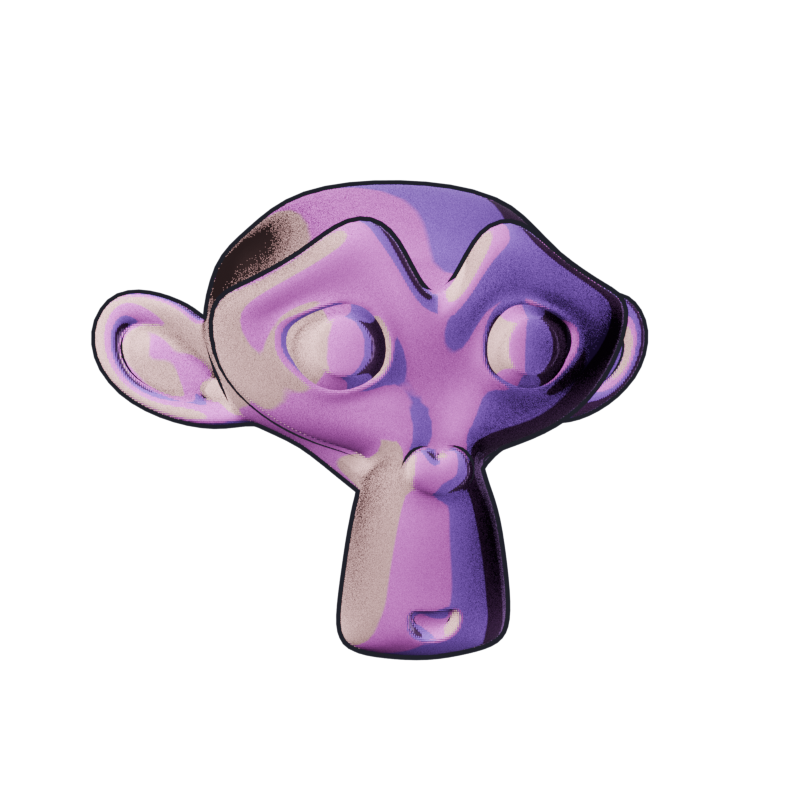
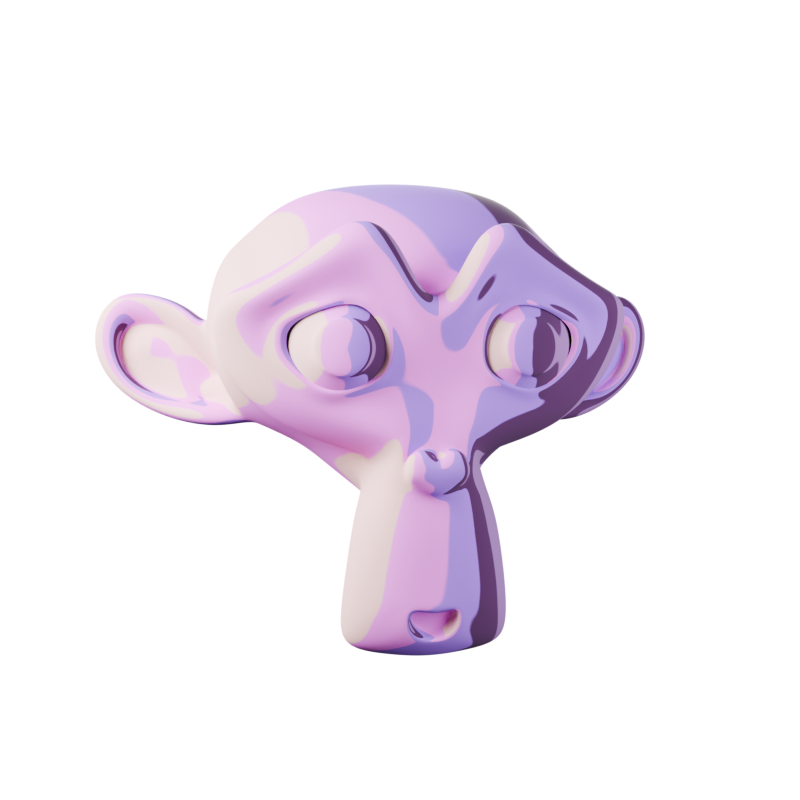
Anime: drop outline, restore clean cel thumbnail + copy
Outline removed everywhere: thumbnail back to the clean cel render, descriptions no longer mention an outline.

Changed region(s): [[0.0938, 0.2188, 0.8125, 0.8438]]

diff --git a/presets.html b/presets.html
@@ -68,7 +68,7 @@
         <div class="presets__card">
           <div class="presets__preview presets__preview--anime-genshin-hero" role="img" aria-label="Anime Cel-Shaded preset"></div>
           <h4>Anime Cel-Shaded</h4>
-          <p>Hard NdotL shadow bands and a rim light, plus a one-click inverted-hull toon outline (EEVEE Next).</p>
+          <p>Hard NdotL shadow bands and a rim light &mdash; crisp cel-shading driven by the light angle, no node wiring.</p>
         </div>
         <div class="presets__card">
           <div class="presets__preview presets__preview--watercolor" role="img" aria-label="Watercolor preset"></div>

diff --git a/index.html b/index.html
@@ -585,7 +585,7 @@
         <div class="presets__card">
           <div class="presets__preview presets__preview--anime-genshin-hero" role="img" aria-label="Anime Cel-Shaded preset"></div>
           <h4>Anime Cel-Shaded</h4>
-          <p>NdotL shadow bands, rim light, and a one-click toon outline (EEVEE).</p>
+          <p>NdotL shadow bands and a rim light &mdash; light-driven cel shading.</p>
         </div>
         <div class="presets__card">
           <div class="presets__preview presets__preview--bronze-verdigris-patina" role="img" aria-label="Bronze Verdigris Patina preset"></div>
